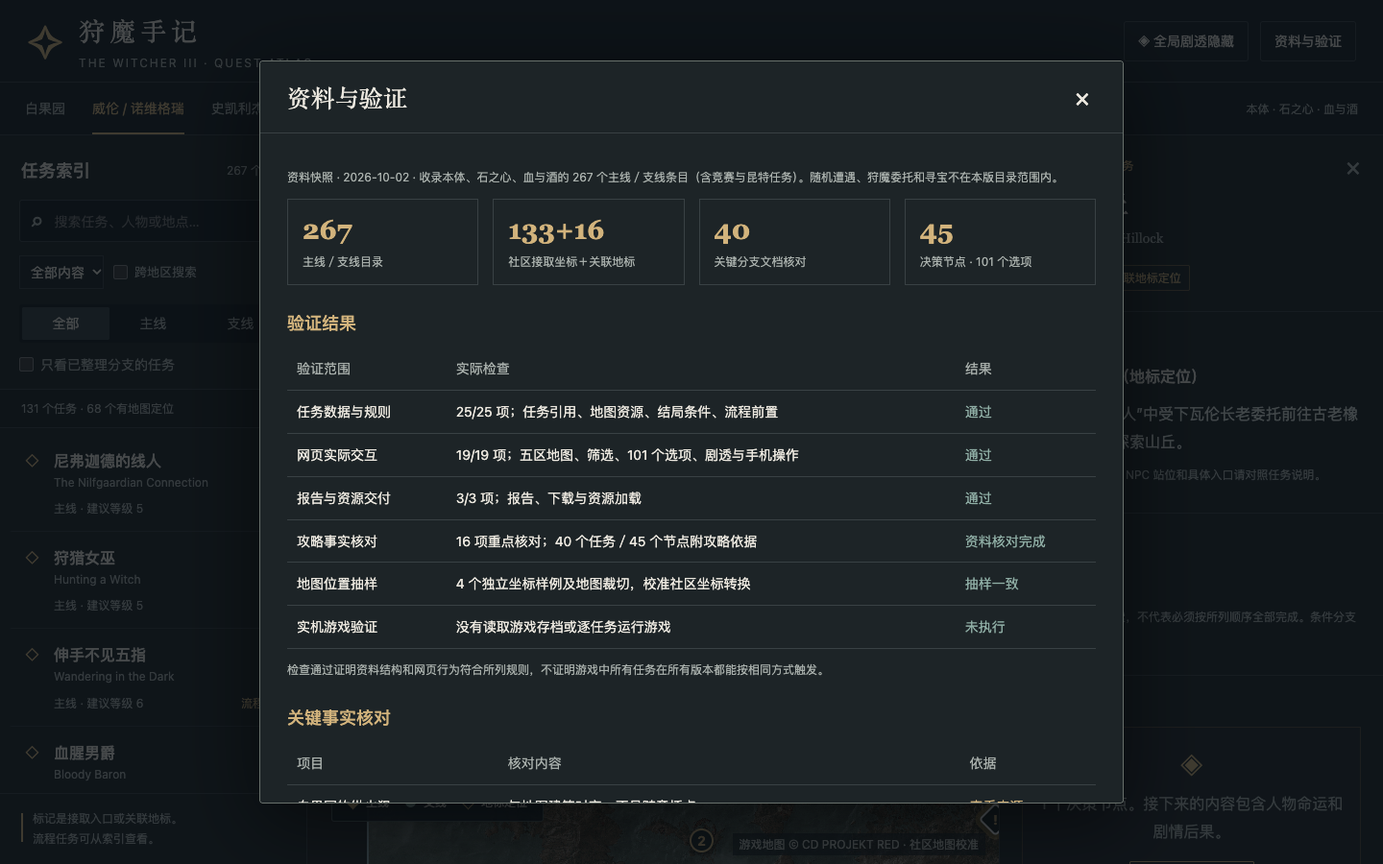
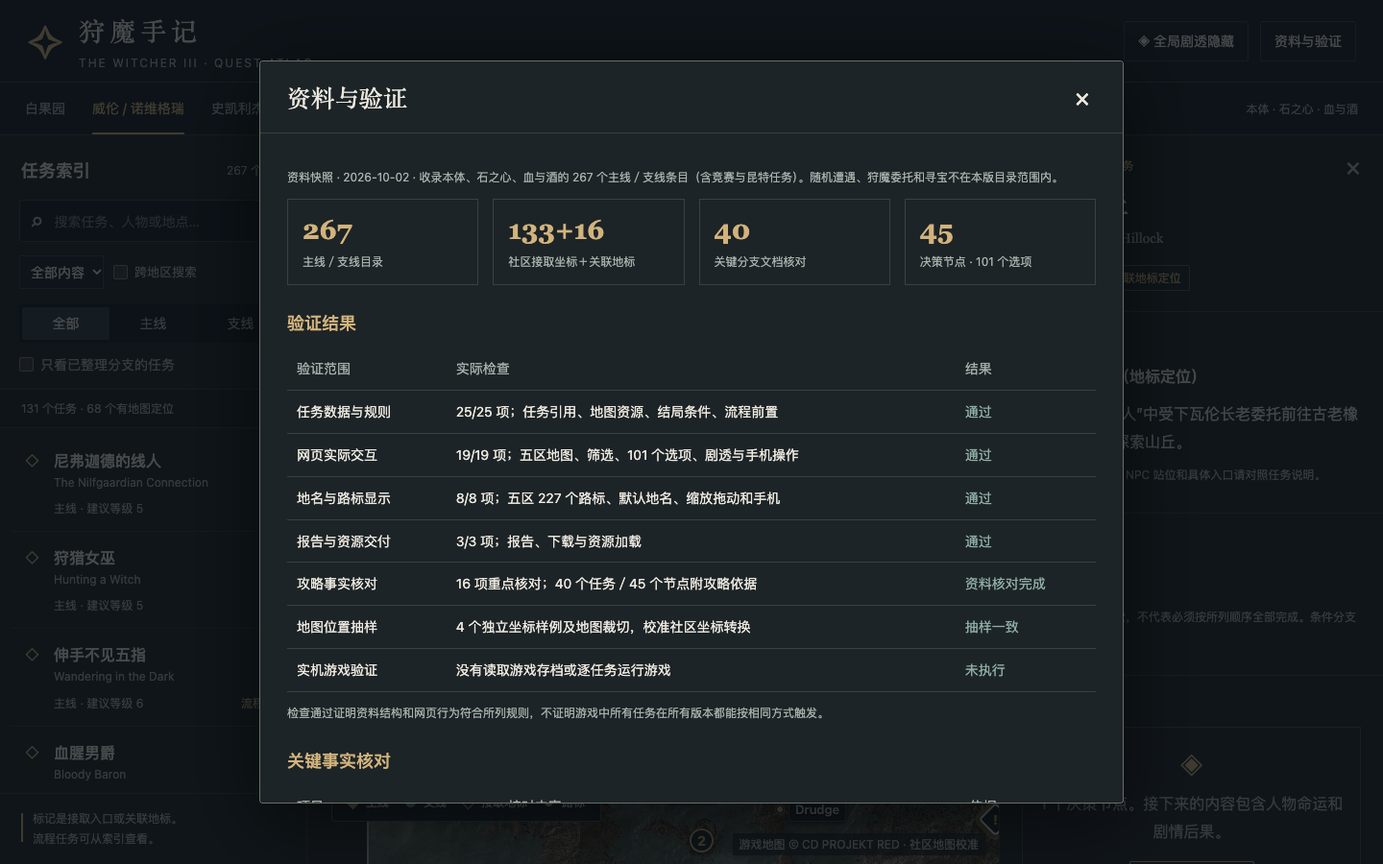
Update Site source

diff --git a/dist/app.js b/dist/app.js
@@ -1,15 +1,33 @@
 'use strict';
 const $=s=>document.querySelector(s),esc=s=>String(s??'').replace(/[&<>"']/g,c=>({'&':'&amp;','<':'&lt;','>':'&gt;','"':'&quot;',"'":'&#39;'}[c]));
 const REGIONS=[{id:'white-orchard',name:'白果园',title:'白果园',en:'WHITE ORCHARD',code:'WO',center:[-9,6],zoom:2,max:4},{id:'velen',name:'威伦 / 诺维格瑞',title:'威伦 & 诺维格瑞',en:'VELEN & NOVIGRAD',code:'NO',center:[8,-5],zoom:2,max:3},{id:'skellige',name:'史凯利杰',title:'史凯利杰群岛',en:'SKELLIGE ISLES',code:'SK',center:[0,0],zoom:2,max:3},{id:'kaer-morhen',name:'凯尔莫罕',title:'凯尔莫罕',en:'KAER MORHEN',code:'KM',center:[0,0],zoom:2,max:3},{id:'toussaint',name:'陶森特',title:'陶森特',en:'TOUSSAINT',code:'TO',center:[0,0],zoom:2,max:3},{id:'vizima',name:'维吉玛',title:'维吉玛王宫',en:'ROYAL PALACE',code:null,center:[0,0],zoom:2,max:3}];
-const EXP={base:'游戏本体',hos:'石之心',baw:'血与酒'};const state={region:'velen',type:'all',exp:'all',query:'',global:false,branch:false,selected:null,spoilers:false,revealed:[],choices:{},sim:{snow:true,lodge:true,lab:true,grave:true,visit:false,payment:true,war:'nilfgaard'},baw:{route:'fairy',ribbon:true,diary:true,story:true,fifth:true,forgive:true}};
-let DATA,byId,map,tiles,markers,labels,highlight;window.atlas={state};
+const EXP={base:'游戏本体',hos:'石之心',baw:'血与酒'};const state={region:'velen',type:'all',exp:'all',query:'',global:false,branch:false,selected:null,landmarks:true,spoilers:false,revealed:[],choices:{},sim:{snow:true,lodge:true,lab:true,grave:true,visit:false,payment:true,war:'nilfgaard'},baw:{route:'fairy',ribbon:true,diary:true,story:true,fifth:true,forgive:true}};
+let DATA,byId,map,tiles,markers,labels,placeNames,highlight,labelFrame;window.atlas={state};
 function filtered(){const query=state.query.toLowerCase();return DATA.quests.filter(q=>(state.global||q.region===state.region)&&(state.type==='all'||q.type===state.type)&&(state.exp==='all'||q.expansion===state.exp)&&(!state.branch||q.decisions.length>0||q.id==='q298')&&(!query||[q.title,q.name,q.location,q.trigger,...q.decisions.map(d=>d.title),q.people||''].join(' ').toLowerCase().includes(query))).sort((a,b)=>(a.type==='main'?0:1)-(b.type==='main'?0:1))}
 function regionMeta(){return REGIONS.find(r=>r.id===state.region)}
 function showMobile(view){document.body.classList.toggle('show-catalog',view==='list');document.body.classList.toggle('show-detail',view==='detail');$('#mobile-map').setAttribute('aria-pressed',String(view==='map'));$('#mobile-list').setAttribute('aria-pressed',String(view==='list'));$('#mobile-detail').setAttribute('aria-pressed',String(view==='detail'));setTimeout(()=>map?.invalidateSize(),50)}
 function renderList(){const qs=filtered();$('#total').textContent=DATA.quests.length+' 个任务';$('#list-summary').textContent=`${qs.length} 个任务 · ${qs.filter(q=>q.point).length} 个有地图定位`;$('#quest-list').innerHTML=qs.length?qs.map(q=>`<button class="quest-row ${state.selected===q.id?'selected':''}" data-quest="${esc(q.id)}" aria-pressed="${state.selected===q.id}"><span class="quest-symbol ${q.type}" aria-hidden="true">${q.type==='main'?'◇':'○'}</span><span class="quest-row-text"><strong>${esc(q.title)}</strong><span class="original">${esc(q.name)}</span><span class="row-meta"><span>${q.type==='main'?'主线':'支线'} · ${q.level?'建议等级 '+q.level:'无固定等级'}</span><span class="row-badge">${q.decisions.length?'抉择 '+q.decisions.length:!q.point?'流程触发':q.precision==='landmark'?'地标':''}</span></span></span></button>`).join(''):'<div class="empty">没有符合条件的任务。<br>试试调整筛选，或勾选“跨地区搜索”。</div>';document.querySelectorAll('[data-quest]').forEach(b=>b.onclick=()=>selectQuest(b.dataset.quest));renderMarkers();}
 function pinIcon(q,count){return L.divIcon({className:'',html:`<div class="map-pin ${q.type} ${q.precision==='landmark'?'landmark':''} ${state.selected===q.id?'chosen':''}" style="width:25px;height:25px"><span>${count>1?count:q.type==='main'?'!':'·'}</span></div>`,iconSize:[25,25],iconAnchor:[12,12]})}
-function renderMarkers(){if(!map)return;markers.clearLayers();const qs=filtered().filter(q=>q.point&&q.region===state.region);const grouped=new Map();for(const q of qs){const key=q.point.latlng.map(n=>n.toFixed(4)).join();if(!grouped.has(key))grouped.set(key,[]);grouped.get(key).push(q)}for(const group of grouped.values()){const q=group.find(q=>q.id===state.selected)||group[0],m=L.marker(q.point.latlng,{icon:pinIcon(q,group.length),title:group.map(q=>q.title).join('、'),keyboard:true});m.bindTooltip(esc(q.title)+(group.length>1?` 等 ${group.length} 个任务`:''),{direction:'top',offset:[0,-12]});m.on('click',()=>group.length>1?showGroup(group):selectQuest(q.id));m.addTo(markers)}$('#map-count').textContent=`${DATA.quests.filter(q=>q.region===state.region).length} 个任务 · ${qs.length} 个任务已定位`;}
-function setRegion(id){if(!REGIONS.some(r=>r.id===id))return;state.region=id;document.querySelector('.map-shell').classList.toggle('vizima',id==='vizima');if(highlight){highlight.remove();highlight=null}$('#regions').innerHTML=REGIONS.map(r=>`<button data-region="${r.id}" class="${r.id===id?'active':''}" aria-pressed="${r.id===id}">${r.name}</button>`).join('');document.querySelectorAll('[data-region]').forEach(b=>b.onclick=()=>{closeDetail();setRegion(b.dataset.region);showMobile('map')});const r=regionMeta();$('#map-title').textContent=r.title;$('#map-subtitle').textContent=r.en;if(tiles){tiles.remove();tiles=null}labels.clearLayers();if(r.code){tiles=L.tileLayer(`assets/tiles/${r.code}/{z}/{x}/{y}.png`,{minZoom:1,maxZoom:r.max+2,maxNativeZoom:r.max,noWrap:true,bounds:r.code==='WO'?[[-77.6929,-180],[76.5985,180]]:[[-85.0511,-180],[85.0511,180]],errorTileUrl:'assets/tile-empty.svg'}).addTo(map);$('#map-notice').textContent='';for(const p of DATA.landmarks.filter(p=>p.region===id)){L.circleMarker(p.latlng,{radius:2,color:'#d3ceaa',opacity:.45,weight:1,fillOpacity:.25}).bindTooltip(esc(p.name),{permanent:false,className:'landmark-label',direction:'top'}).addTo(labels)}}else $('#map-notice').textContent='维吉玛王宫是独立室内场景。此处展示流程任务，不使用其他地区地图代替。';map.setView(r.center,r.zoom);renderList();}
+function renderMarkers(){if(!map)return;markers.clearLayers();const qs=filtered().filter(q=>q.point&&q.region===state.region);const grouped=new Map();for(const q of qs){const key=q.point.latlng.map(n=>n.toFixed(4)).join();if(!grouped.has(key))grouped.set(key,[]);grouped.get(key).push(q)}for(const group of grouped.values()){const q=group.find(q=>q.id===state.selected)||group[0],m=L.marker(q.point.latlng,{icon:pinIcon(q,group.length),title:group.map(q=>q.title).join('、'),keyboard:true});m.bindTooltip(esc(q.title)+(group.length>1?` 等 ${group.length} 个任务`:''),{direction:'top',offset:[0,-12]});m.on('click',()=>group.length>1?showGroup(group):selectQuest(q.id));m.addTo(markers)}$('#map-count').textContent=`${DATA.quests.filter(q=>q.region===state.region).length} 个任务 · ${qs.length} 个任务已定位`;schedulePlaceNames();}
+const PLACE_NAMES={
+ '哀歌桥':'白果园 · 哀歌桥','Sawmill':'锯木厂','Mill':'磨坊','Ford':'浅滩','Crossroads':'十字路口','Broken Bridge':'断桥','Ransacked Village':'洗劫村庄','Cackler Bridge':'咯咯桥','Abandoned Village':'废弃村庄',
+ 'Hierarch Square':'诺维格瑞 · 教主广场','Novigrad Docks':'诺维格瑞港','St. Gregory\'s Bridge':'圣格列高里之桥','Electors\' Square':'选帝侯广场','Hanged Man\'s Tree':'吊死鬼之树','Orphans of Crookback Bog':'驼背泥沼孤儿村','Blackbough（黑树村）':'黑枝／黑树村','Lindenvale':'林登维尔','Oreton':'奥瑞登','Claywich':'克莱威奇','Heatherton':'希瑟顿','Benek':'班寇','Lurtch':'勒契','Mulbrydale':'莫布里戴尔','Reardon Manor':'里尔顿庄园','Vegelbud Residence':'威吉布德庄园','Border Post':'边境哨站','White Eagle Fort':'白鹰堡垒','Bald Mountain':'秃山','Nilfgaardian Army Group':'尼弗迦德军营','Upper Mill':'上磨坊','Brunwich':'布伦威治','Von Everec Estate':'冯·艾弗瑞克庄园','Herbalist\'s Hut':'草药医生小屋','Stonecutter\'s Settlement':'石匠聚落','Temerian Parison Hideout':'泰莫利亚游击队营地',
+ 'Kaer Muire':'凯尔缪雷','Arinbjorn':'阿林比翁','Blandare':'布兰代尔','Svorlag':'斯沃拉格','Harviken':'哈尔维肯','Trottheim':'托特海姆','Freya\'s Garden':'芙蕾雅花园','Druids\' Camp':'德鲁伊营地','Ancient Crypt':'古老墓穴','Pali Gap Coast':'帕利峡湾海岸','Eldberg Lighthouse':'艾尔德堡灯塔','Dorve Ruins':'多尔夫废墟',
+ 'The Morhen Eye':'莫罕之眼','Outpost ruins':'哨站废墟','Morhen Mine dam':'莫罕矿坑','The Lake House':'湖畔小屋',
+ 'Beauclair Palace':'鲍克兰宫殿','The Gran\'place':'鲍克兰 · 大广场','Beauclair Port':'鲍克兰港','Palace Gardens':'宫殿花园','Lower City':'鲍克兰下城区','Ardaiso Quarry':'阿尔达索采石场','Belgaard Vineyard':'贝尔迦德葡萄园','Coronata Vineyard':'科罗纳塔葡萄园','Castel Ravello Vineyard':'拉维罗堡葡萄园','Dun Tynne Castle':'杜恩泰恩城堡','The Cockatrice Inn':'石化鸡蛇旅馆','Prophet Lebioda Statue':'雷比欧达雕像','Fox Hollow':'狐穴','Trading Post':'贸易站','Toussaint Prison':'陶森特监狱'
+};
+const MAJOR_PLACES=new Set(['哀歌桥','尼弗迦德驻军','Hierarch Square','Novigrad Docks','奥森弗特港','乌鸦窝','十字路口旅店','米德考普斯','古老橡树','下瓦伦','七只猫旅馆','Hanged Man\'s Tree','Upper Mill','Brunwich','凯尔卓港','凯尔卓城堡桥','盖迪尼斯','罗弗敦','拉尔维克','Kaer Muire','Svorlag','凯尔莫罕','The Gran\'place','Beauclair Palace','白鸦葡萄园','比武场','普雷格蒙德桥','Belgaard Vineyard']);
+function placeName(p){return PLACE_NAMES[p.name]||p.name}
+function syncLandmarks(){const b=$('#landmark-toggle');b.setAttribute('aria-pressed',String(state.landmarks));b.textContent=state.landmarks?'地名 ✓':'地名';}
+function renderLandmarks(){labels.clearLayers();placeNames.clearLayers();if(!state.landmarks||!regionMeta().code)return;for(const p of DATA.landmarks.filter(p=>p.region===state.region)){L.marker(p.latlng,{pane:'landmarkPoints',title:placeName(p),icon:L.divIcon({className:'road-sign',html:'<span></span>',iconSize:[12,12],iconAnchor:[6,6]})}).bindTooltip(esc(placeName(p)),{direction:'top',className:'place-hover'}).bindPopup(`<strong>${esc(placeName(p))}</strong><p>快速旅行路标</p>${placeName(p)!==p.name?`<small>${esc(p.name)}</small>`:''}`,{className:'place-popup'}).addTo(labels)}schedulePlaceNames();}
+function schedulePlaceNames(){if(labelFrame)cancelAnimationFrame(labelFrame);labelFrame=requestAnimationFrame(()=>{labelFrame=null;renderPlaceNames()})}
+function renderPlaceNames(){placeNames.clearLayers();if(!state.landmarks||!regionMeta().code||!Number.isFinite(map.getZoom()))return;const size=map.getSize(),mapRect=$('#map').getBoundingClientRect(),fontScale=parseFloat(getComputedStyle(document.documentElement).fontSize)/16,ctx=document.createElement('canvas').getContext('2d'),occupied=[];const overlaps=(a,b)=>a.x<b.x+b.w+4&&a.x+a.w+4>b.x&&a.y<b.y+b.h+4&&a.y+a.h+4>b.y;
+ for(const selector of ['.map-heading','.compass','.map-tools','.legend','.attribution']){const b=document.querySelector(selector)?.getBoundingClientRect();if(b&&b.width&&b.height)occupied.push({x:b.x-mapRect.x,y:b.y-mapRect.y,w:b.width,h:b.height})}
+ for(const q of filtered().filter(q=>q.point&&q.region===state.region)){const p=map.latLngToContainerPoint(q.point.latlng);occupied.push({x:p.x-14,y:p.y-14,w:28,h:28})}
+ const candidates=DATA.landmarks.filter(p=>p.region===state.region).map((p,i)=>({...p,index:i,major:MAJOR_PLACES.has(p.name),point:map.latLngToContainerPoint(p.latlng)})).filter(p=>p.point.x>=8&&p.point.x<=size.x-8&&p.point.y>=8&&p.point.y<=size.y-8).sort((a,b)=>Number(b.major)-Number(a.major)||a.index-b.index);
+ for(const p of candidates){const text=placeName(p),font=(p.major?14:13)*fontScale;ctx.font=`${p.major?700:500} ${font}px -apple-system, BlinkMacSystemFont, "PingFang SC", sans-serif`;const w=Math.min(Math.ceil(ctx.measureText(text).width+14),Math.max(110,Math.min(230*fontScale,size.x-24))),h=Math.ceil(font*1.45+6),x=p.point.x,y=p.point.y;const positions=(p.major?[9,30,54,82,110]:[9]).flatMap(g=>[{x:x+g,y:y-h/2,g},{x:x-w-g,y:y-h/2,g},{x:x-w/2,y:y+g,g},{x:x-w/2,y:y-h-g,g}]);const box=positions.find(b=>b.x>=6&&b.y>=6&&b.x+w<=size.x-6&&b.y+h<=size.y-6&&!occupied.some(o=>overlaps({...b,w,h},o)));if(!box)continue;occupied.push({...box,w,h});if(box.g>9){const end={x:Math.max(box.x,Math.min(x,box.x+w)),y:Math.max(box.y,Math.min(y,box.y+h))};L.polyline([p.latlng,map.containerPointToLatLng(end)],{pane:'placeNames',color:'#d9c391',opacity:.75,weight:1,interactive:false}).addTo(placeNames)}L.marker(p.latlng,{pane:'placeNames',interactive:false,keyboard:false,icon:L.divIcon({className:'place-label'+(p.major?' major':''),html:`<span title="${esc(text)}">${esc(text)}</span>`,iconSize:[w,h],iconAnchor:[x-box.x,y-box.y]})}).addTo(placeNames)}
+}
+function setRegion(id){if(!REGIONS.some(r=>r.id===id))return;state.region=id;document.querySelector('.map-shell').classList.toggle('vizima',id==='vizima');if(highlight){highlight.remove();highlight=null}$('#regions').innerHTML=REGIONS.map(r=>`<button data-region="${r.id}" class="${r.id===id?'active':''}" aria-pressed="${r.id===id}">${r.name}</button>`).join('');document.querySelectorAll('[data-region]').forEach(b=>b.onclick=()=>{closeDetail();setRegion(b.dataset.region);showMobile('map')});const r=regionMeta();$('#map-title').textContent=r.title;$('#map-subtitle').textContent=r.en;if(tiles){tiles.remove();tiles=null}labels.clearLayers();if(r.code){tiles=L.tileLayer(`assets/tiles/${r.code}/{z}/{x}/{y}.png`,{minZoom:1,maxZoom:r.max+2,maxNativeZoom:r.max,noWrap:true,bounds:r.code==='WO'?[[-77.6929,-180],[76.5985,180]]:[[-85.0511,-180],[85.0511,180]],errorTileUrl:'assets/tile-empty.svg'}).addTo(map);$('#map-notice').textContent='';renderLandmarks();}else $('#map-notice').textContent='维吉玛王宫是独立室内场景。此处展示流程任务，不使用其他地区地图代替。';map.setView(r.center,r.zoom);renderList();}
 function selectQuest(id,focus=true){const q=byId[id];if(!q)return;state.selected=id;if(q.region!==state.region)setRegion(q.region);if(state.type!=='all'&&state.type!==q.type){state.type='all';syncType()}if(state.branch&&!q.decisions.length){state.branch=false;$('#branch-only').checked=false}if(state.exp!=='all'&&state.exp!==q.expansion){state.exp='all';$('#expansion').value='all'}renderList();$('#detail').scrollTop=0;renderDetail();if(state.query&&!filtered().some(a=>a.id===id)){state.query='';$('#search').value='';renderList()}if(q.point&&focus){map.setView(q.point.latlng,Math.max(map.getZoom(),3));if(highlight)highlight.remove();highlight=L.circleMarker(q.point.latlng,{radius:21,weight:1,color:'#f1d8aa',fillOpacity:0,interactive:false}).addTo(map)}else if(highlight){highlight.remove();highlight=null}if(matchMedia('(max-width:700px)').matches)showMobile('detail');}
 function linked(ids){return `<div class="linked-quests">${ids.filter(id=>byId[id]).map(id=>`<button data-link="${esc(id)}">${esc(byId[id].title)}</button>`).join('')}</div>`}
 function bindLinks(){document.querySelectorAll('[data-link]').forEach(b=>b.onclick=()=>selectQuest(b.dataset.link));}
@@ -28,7 +46,7 @@ function bindSimulators(){if($('#ciri-simulator')){updateCiriResult();for(const 
 function syncType(){document.querySelectorAll('[data-type]').forEach(b=>b.setAttribute('aria-pressed',String(state.type===b.dataset.type)))}
 function syncSpoiler(){$('#spoiler').setAttribute('aria-pressed',String(state.spoilers));$('#spoiler').innerHTML=state.spoilers?'◈ 全局剧透展开':'◈ 全局剧透隐藏'}
 async function renderAudit(){let qa=null;try{const r=await fetch('validation.json',{cache:'no-store'});if(r.ok)qa=await r.json()}catch{}const exact=DATA.quests.filter(q=>q.precision==='community').length,anchors=DATA.quests.filter(q=>q.precision==='landmark').length;$('#audit-content').innerHTML=`<p class="fine">资料快照 · ${esc(DATA.meta.date)} · ${esc(DATA.meta.scope)}</p><div class="audit-stats"><div class="audit-stat"><strong>${DATA.quests.length}</strong><span>主线／支线目录</span></div><div class="audit-stat"><strong>${exact}+${anchors}</strong><span>社区接取坐标＋关联地标</span></div><div class="audit-stat"><strong>${DATA.meta.reviewedTasks}</strong><span>关键分支文档核对</span></div><div class="audit-stat"><strong>${DATA.meta.decisionNodes}</strong><span>决策节点 · ${DATA.meta.decisionOptions} 个选项</span></div></div><h3>验证结果</h3>${qa?`<div class="audit-table-wrap"><table class="audit-table"><thead><tr><th>验证范围</th><th>实际检查</th><th>结果</th></tr></thead><tbody>${qa.summary.map(t=>`<tr><td>${esc(t.name)}</td><td>${esc(t.detail)}</td><td>${esc(t.status)}</td></tr>`).join('')}</tbody></table></div>`:'<p>自动检查报告尚未生成。地图与分支资料的核对结果如下。</p>'}<p class="fine">检查通过证明资料结构和网页行为符合所列规则，不证明游戏中所有任务在所有版本都能按相同方式触发。</p><h3>关键事实核对</h3><div class="audit-table-wrap"><table class="audit-table"><thead><tr><th>项目</th><th>核对内容</th><th>依据</th></tr></thead><tbody>${DATA.meta.factChecks.map(t=>`<tr><td>${esc(t.claim)}</td><td>${esc(t.result)}</td><td><a href="${esc(t.source)}" target="_blank" rel="noopener">查看来源</a></td></tr>`).join('')}</tbody></table></div><h3>接取点视觉抽样</h3><p>用相同校准方式把接取坐标叠到真实地图上。下列四处与建筑／地标对应；这属于地图一致性检查。</p><div class="review-grid">${[['19','失踪的兄弟 · 洗劫村庄'],['37','扭曲的纵火犯 · 白果园铁匠'],['263','宝剑与饺子 · 诺维格瑞铁匠街区'],['424','唯有一人 · 鲍克兰告示板，非湖上目标']].map(([id,t])=>`<figure><img loading="lazy" src="assets/check-${id}.jpg" alt="${esc(t)}的地图坐标核对"><figcaption>${esc(t)}</figcaption></figure>`).join('')}</div><h3>覆盖与验证边界</h3><ul>${DATA.meta.limitations.map(t=>`<li>${esc(t)}</li>`).join('')}</ul><h3>已修正的来源问题</h3><ul>${DATA.meta.corrections.map(t=>`<li>${esc(t)}</li>`).join('')}</ul><h3>资料来源</h3><div class="source-list">${DATA.meta.sources.map(s=>`<a href="${esc(s.url)}" target="_blank" rel="noopener">${esc(s.label)} ↗</a>`).join('')}</div><div class="audit-downloads"><a href="validation-report.md" download>下载验证报告</a><a href="data.json" download>下载任务数据</a><a href="fact-checks.json" download>下载事实核对清单</a></div><p class="fine">游戏地图与游戏内容版权归 CD PROJEKT RED 所有，地图和坐标来源注明 Witcher3MapViewer。本网站为非官方个人研究工具。Leaflet 1.9.4 使用 BSD-2-Clause 许可。</p>`;}
-async function init(){try{const r=await fetch('data.json');if(!r.ok)throw Error('任务资料加载失败');DATA=await r.json();byId=Object.fromEntries(DATA.quests.map(q=>[q.id,q]));map=L.map('map',{zoomControl:false,attributionControl:false,minZoom:1,maxZoom:6,preferCanvas:true,worldCopyJump:false});markers=L.layerGroup().addTo(map);labels=L.layerGroup().addTo(map);window.atlas={state,DATA,filtered,selectQuest,setRegion,map,hasSpoilers,renderDetail,renderList};registerWebMCP();setRegion(state.region);$('#search').oninput=e=>{state.query=e.target.value;renderList()};$('#expansion').onchange=e=>{state.exp=e.target.value;renderList()};$('#global').onchange=e=>{state.global=e.target.checked;renderList()};$('#branch-only').onchange=e=>{state.branch=e.target.checked;renderList()};document.querySelectorAll('[data-type]').forEach(b=>b.onclick=()=>{state.type=b.dataset.type;syncType();renderList()});$('#spoiler').onclick=()=>{state.spoilers=!state.spoilers;if(!state.spoilers)state.revealed=[];syncSpoiler();renderDetail()};$('#verification').onclick=()=>{$('#audit-dialog').showModal();renderAudit()};$('#close-audit').onclick=()=>$('#audit-dialog').close();$('#audit-dialog').onclick=e=>{if(e.target===$('#audit-dialog')){const b=e.target.getBoundingClientRect();if(e.clientX<b.left||e.clientX>b.right||e.clientY<b.top||e.clientY>b.bottom)e.target.close()}};$('#reset-map').onclick=()=>{const r=regionMeta();map.setView(r.center,r.zoom)};$('#zoom-in').onclick=()=>map.zoomIn();$('#zoom-out').onclick=()=>map.zoomOut();$('#mobile-map').onclick=()=>showMobile('map');$('#mobile-list').onclick=()=>showMobile('list');$('#mobile-detail').onclick=()=>state.selected?showMobile('detail'):showMobile('list');document.addEventListener('keydown',e=>{if(e.key==='/'&&!['INPUT','SELECT','TEXTAREA'].includes(document.activeElement.tagName)&&!$('#audit-dialog').open){e.preventDefault();showMobile('list');$('#search').focus()}if(e.key==='Escape'&&!$('#audit-dialog').open&&state.selected)closeDetail()});selectQuest('q67',false);if(matchMedia('(max-width:700px)').matches)showMobile('map')}catch(e){$('#fatal').hidden=false;$('#fatal').textContent='页面资料未能加载。请刷新重试。'+e.message;console.error(e)}}
+async function init(){try{const r=await fetch('data.json');if(!r.ok)throw Error('任务资料加载失败');DATA=await r.json();byId=Object.fromEntries(DATA.quests.map(q=>[q.id,q]));map=L.map('map',{zoomControl:false,attributionControl:false,minZoom:1,maxZoom:6,preferCanvas:true,worldCopyJump:false});markers=L.layerGroup().addTo(map);map.createPane('landmarkPoints').style.zIndex=430;map.createPane('placeNames').style.zIndex=440;map.getPane('placeNames').style.pointerEvents='none';labels=L.layerGroup().addTo(map);placeNames=L.layerGroup().addTo(map);map.on('moveend zoomend resize',schedulePlaceNames);window.atlas={state,DATA,filtered,selectQuest,setRegion,map,hasSpoilers,renderDetail,renderList,landmarkLayers:{points:labels,names:placeNames}};registerWebMCP();setRegion(state.region);$('#search').oninput=e=>{state.query=e.target.value;renderList()};$('#expansion').onchange=e=>{state.exp=e.target.value;renderList()};$('#global').onchange=e=>{state.global=e.target.checked;renderList()};$('#branch-only').onchange=e=>{state.branch=e.target.checked;renderList()};document.querySelectorAll('[data-type]').forEach(b=>b.onclick=()=>{state.type=b.dataset.type;syncType();renderList()});$('#spoiler').onclick=()=>{state.spoilers=!state.spoilers;if(!state.spoilers)state.revealed=[];syncSpoiler();renderDetail()};$('#verification').onclick=()=>{$('#audit-dialog').showModal();renderAudit()};$('#close-audit').onclick=()=>$('#audit-dialog').close();$('#audit-dialog').onclick=e=>{if(e.target===$('#audit-dialog')){const b=e.target.getBoundingClientRect();if(e.clientX<b.left||e.clientX>b.right||e.clientY<b.top||e.clientY>b.bottom)e.target.close()}};syncLandmarks();$('#landmark-toggle').onclick=()=>{state.landmarks=!state.landmarks;syncLandmarks();renderLandmarks()};$('#reset-map').onclick=()=>{const r=regionMeta();map.setView(r.center,r.zoom)};$('#zoom-in').onclick=()=>map.zoomIn();$('#zoom-out').onclick=()=>map.zoomOut();$('#mobile-map').onclick=()=>showMobile('map');$('#mobile-list').onclick=()=>showMobile('list');$('#mobile-detail').onclick=()=>state.selected?showMobile('detail'):showMobile('list');document.addEventListener('keydown',e=>{if(e.key==='/'&&!['INPUT','SELECT','TEXTAREA'].includes(document.activeElement.tagName)&&!$('#audit-dialog').open){e.preventDefault();showMobile('list');$('#search').focus()}if(e.key==='Escape'&&!$('#audit-dialog').open&&state.selected)closeDetail()});selectQuest('q67',false);if(matchMedia('(max-width:700px)').matches)showMobile('map')}catch(e){$('#fatal').hidden=false;$('#fatal').textContent='页面资料未能加载。请刷新重试。'+e.message;console.error(e)}}
 function showGroup(qs){$('#detail').hidden=false;$('#detail').innerHTML=`<div class="detail-top"><button class="detail-close" id="detail-close" aria-label="关闭任务详情">×</button><div class="detail-kicker">同一地点</div><h2>${qs.length} 个关联任务</h2></div><section class="detail-section"><div class="group-picker">${qs.map(q=>`<button data-link="${esc(q.id)}">${esc(q.title)}<span class="fine"> · ${q.type==='main'?'主线':'支线'}</span></button>`).join('')}</div><p class="fine">同一地标的任务可能在不同剧情阶段触发。</p></section>`;$('#detail-close').onclick=closeDetail;bindLinks();if(matchMedia('(max-width:700px)').matches)showMobile('detail')}
 init();
 

diff --git a/dist/index.html b/dist/index.html
@@ -2,7 +2,7 @@
 <header><div class="brand"><span class="brand-mark" aria-hidden="true">✧</span><div><h1>狩魔手记</h1><span>THE WITCHER III · QUEST ATLAS</span></div></div><div class="header-actions"><button id="spoiler" class="quiet" aria-pressed="false"><span aria-hidden="true">◈</span> 全局剧透隐藏</button><button id="verification" class="quiet">资料与验证</button></div></header>
 <nav class="region-nav" aria-label="地图地区"><div id="regions"></div><span class="version">本体 · 石之心 · 血与酒</span></nav>
 <main><aside class="catalog" id="catalog"><div class="catalog-heading"><h2>任务索引</h2><span id="total" class="small"></span></div><label class="search"><span aria-hidden="true">⌕</span><input id="search" placeholder="搜索任务、人物或地点…" aria-label="搜索任务、人物或地点"><kbd>/</kbd></label><div class="filter-row"><label for="expansion" class="sr-only">游戏内容</label><select id="expansion"><option value="all">全部内容</option><option value="base">游戏本体</option><option value="hos">石之心</option><option value="baw">血与酒</option></select><label class="check"><input type="checkbox" id="global">跨地区搜索</label></div><div class="types" id="types" aria-label="任务类型"><button data-type="all" aria-pressed="true">全部</button><button data-type="main" aria-pressed="false">主线</button><button data-type="side" aria-pressed="false">支线</button></div><label class="check branch-filter"><input type="checkbox" id="branch-only">只看已整理分支的任务</label><div class="list-summary" id="list-summary" role="status"></div><div id="quest-list" class="quest-list"></div><div class="catalog-footer"><span class="gold-line"></span><span>标记是接取入口或关联地标。<br>流程任务可从索引查看。</span></div></aside>
-<section class="map-shell" aria-label="互动任务地图"><div id="map"></div><div class="map-heading"><span class="eyebrow" id="map-subtitle">NORTHERN REALMS</span><h2 id="map-title">威伦 & 诺维格瑞</h2><p id="map-count"></p></div><div class="compass" aria-hidden="true"><span>N</span><div>✥</div></div><div class="map-tools"><button id="reset-map" title="查看整个地区" aria-label="查看整个地区">⌖</button><button id="zoom-in" aria-label="放大地图">+</button><button id="zoom-out" aria-label="缩小地图">−</button></div><div class="legend"><span><i class="legend-main"></i>主线</span><span><i class="legend-side"></i>支线</span><span><i class="legend-anchor"></i>地标定位</span></div><div class="map-notice" id="map-notice" role="status"></div><div class="attribution">游戏地图 © CD PROJEKT RED · 社区地图校准</div></section>
+<section class="map-shell" aria-label="互动任务地图"><div id="map"></div><div class="map-heading"><span class="eyebrow" id="map-subtitle">NORTHERN REALMS</span><h2 id="map-title">威伦 & 诺维格瑞</h2><p id="map-count"></p></div><div class="compass" aria-hidden="true"><span>N</span><div>✥</div></div><div class="map-tools"><button id="landmark-toggle" class="landmark-toggle" aria-label="显示或隐藏地名与路标" aria-pressed="true" title="地名默认显示；放大后可见更多路标名称">地名 ✓</button><button id="reset-map" title="查看整个地区" aria-label="查看整个地区">⌖</button><button id="zoom-in" aria-label="放大地图">+</button><button id="zoom-out" aria-label="缩小地图">−</button></div><div class="legend"><span><i class="legend-main"></i>主线</span><span><i class="legend-side"></i>支线</span><span><i class="legend-anchor"></i>接取地标</span><span><i class="legend-place"></i>路标</span></div><div class="map-notice" id="map-notice" role="status"></div><div class="attribution">游戏地图 © CD PROJEKT RED · 社区地图校准</div></section>
 <aside class="detail" id="detail" hidden aria-label="任务详情"></aside>
 </main><div class="mobile-tabs"><button id="mobile-map" aria-pressed="true">地图</button><button id="mobile-list" aria-pressed="false">任务索引</button><button id="mobile-detail">任务详情</button></div><dialog id="audit-dialog" aria-labelledby="audit-title"><div class="dialog-top"><h2 id="audit-title">资料与验证</h2><button id="close-audit" aria-label="关闭资料与验证">×</button></div><div id="audit-content"></div></dialog><div id="fatal" hidden role="alert"></div>
 </body></html>

diff --git a/dist/style.css b/dist/style.css
@@ -10,3 +10,7 @@ body{height:100dvh;display:flex;flex-direction:column}header{height:auto;min-hei
 .catalog{overflow-y:auto}.catalog>:not(.quest-list){flex-shrink:0}.quest-list{min-height:150px}.map-heading{max-width:calc(100% - 78px);padding-right:12px}
 
 .map-heading{max-width:calc(100% - 5rem - 56px)}.map-heading h2{white-space:normal;overflow-wrap:anywhere}
+
+.place-label{pointer-events:none!important;display:flex;align-items:center;justify-content:center;white-space:nowrap;font-size:.8125rem;font-weight:500;color:#e9e7d9;background:#182124e8;border:1px solid #77827790;border-radius:3px;padding:2px 6px;line-height:1.45;box-shadow:0 1px 5px #000b;text-shadow:0 1px 2px #000}.place-label span{overflow:hidden;text-overflow:ellipsis}.place-label.major{font-size:.875rem;font-weight:700;color:#f3deaf;border-color:#b39c67a0;background:#172124f5}.place-hover{background:#202a2e;color:#f3deaf;border-color:#b39c67}.place-popup .leaflet-popup-content-wrapper,.place-popup .leaflet-popup-tip{background:#202a2e;color:#ece8df}.place-popup .leaflet-popup-content{font-size:.875rem;line-height:1.6}.place-popup p{margin:5px 0;color:#abb9b1}.place-popup small{color:#abb9b1}.map-tools .landmark-toggle{font-size:.6875rem;line-height:1.5;font-weight:500}.map-tools .landmark-toggle[aria-pressed=true]{color:var(--gold);background:#d2b37c12}.legend-place{width:8px;height:8px;border:1px solid #172024;background:#ead5a6;border-radius:50%;display:inline-block}.legend{flex-wrap:wrap}@media(max-width:700px){.legend{gap:10px;max-width:calc(100% - 26px)}.map-tools .landmark-toggle{font-size:.6875rem}}
+
+#map .leaflet-placeNames-pane,#map .leaflet-placeNames-pane *{pointer-events:none!important}.road-sign{display:flex;align-items:center;justify-content:center}.road-sign span{display:block;width:8px;height:8px;border-radius:50%;background:#ead5a6;border:1.5px solid #172024;box-shadow:0 0 0 1px #d9c39180}

diff --git a/scripts/build-report.py b/scripts/build-report.py
@@ -15,6 +15,11 @@ if browser.get('datasetSha256'):
 asset=read('evidence/asset-report-validation.json') if (root/'evidence/asset-report-validation.json').exists() else None
 if asset:
  assert asset['status']=='pass' and asset['datasetSha256']==digest
+landmark=read('evidence/landmark-validation.json') if (root/'evidence/landmark-validation.json').exists() else None
+if landmark:
+ assert landmark['status']=='pass' and landmark['datasetSha256']==digest
+ assert landmark['appSha256']==hashlib.sha256((root/'dist/app.js').read_bytes()).hexdigest()
+ assert landmark['styleSha256']==hashlib.sha256((root/'dist/style.css').read_bytes()).hexdigest()
 summary=[
  {'name':'任务数据与规则','detail':f"{logic['passed']}/{logic['total']} 项；任务引用、地图资源、结局条件、流程前置",'status':'通过'},
  {'name':'网页实际交互','detail':f"{browser['passed']}/{browser['total']} 项；五区地图、筛选、101 个选项、剧透与手机操作",'status':'通过'},
@@ -23,16 +28,24 @@ summary=[
  {'name':'实机游戏验证','detail':'没有读取游戏存档或逐任务运行游戏','status':'未执行'},
 ]
 if asset:summary.insert(2,{'name':'报告与资源交付','detail':f"{asset['passed']}/{asset['total']} 项；报告、下载与资源加载",'status':'通过'})
+if landmark:summary.insert(2,{'name':'地名与路标显示','detail':f"{landmark['passed']}/{landmark['total']} 项；五区 227 个路标、默认地名、缩放拖动和手机",'status':'通过'})
 qa={'date':d['meta']['date'],'status':'pass','datasetSha256':digest,'summary':summary,
- 'automatedChecksPassed':logic['passed']+browser['passed']+(asset['passed'] if asset else 0),
+ 'automatedChecksPassed':logic['passed']+browser['passed']+(asset['passed'] if asset else 0)+(landmark['passed'] if landmark else 0),
  'coverage':{'quests':len(d['quests']),'main':87,'side':180,'positioned':149,'communityCoordinates':133,'landmarkAnchors':16,'flowOrUnmapped':118,'reviewedBranchTasks':40,'decisionNodes':45,'decisionOptions':101},
  'limits':d['meta']['limitations'],
  'evidence':{'data':'checks/data-logic.json','browser':'checks/browser.json','assets':'checks/assets.json' if asset else None},
  'webMCP':browser['webMCP']}
+if landmark:
+ qa['coverage']['roadSigns']=227
+ qa['evidence']['landmarks']='checks/landmarks.json'
 dist=root/'dist';(dist/'checks').mkdir(exist_ok=True)
 for f,target in [('data-logic-validation.json','data-logic.json'),('browser-validation.json','browser.json')]:
  shutil.copyfile(root/'evidence'/f,dist/'checks'/target)
 if asset:shutil.copyfile(root/'evidence/asset-report-validation.json',dist/'checks/assets.json')
+if landmark:
+ shutil.copyfile(root/'evidence/landmark-validation.json',dist/'checks/landmarks.json')
+ for name in ['landmarks-desktop.png','landmarks-mobile.png']:
+  shutil.copyfile(root/'evidence'/name,dist/'checks'/name)
 for name in ['desktop-final.png','mobile-final.png','decision-final.png','mobile-audit.png','text-200.png']:
  shutil.copyfile(root/'evidence'/name,dist/'checks'/name)
 (dist/'validation.json').write_text(json.dumps(qa,ensure_ascii=False,indent=2))
@@ -88,11 +101,12 @@ lines += [
  '',
  '数值样例用于检查坐标转换；裁切用于建筑与地标的一致性抽样。没有验证全部 149 个点的游戏内 NPC 站位。',
  '',
- '### 重点事实与来源',
- '',
- '| 核对项目 | 结论 | 依据 |',
- '| --- | --- | --- |',
  ]
+if landmark:
+ lines += ['','### 本次地名更新验收','',f"[逐项结果](checks/landmarks.json)：{landmark['passed']}/{landmark['total']} 项通过。227 个原有快速旅行路标现在默认显示名称，密集处的主要地名避让后用细线指回路标；可用“地名”按钮开关。",'']
+ lines += [f"- {c['name']}：{c['detail']}。" for c in landmark['checks']]
+ lines += ['','更新画面：[桌面地名](checks/landmarks-desktop.png)、[手机地名](checks/landmarks-mobile.png)。原有 19 项完整流程验收保留；本次新增地名叠加和地图操作由上述专门检查复验。','']
+lines += ['', '### 重点事实与来源', '', '| 核对项目 | 结论 | 依据 |', '| --- | --- | --- |']
 lines += [f"| {c['claim']} | {c['result']} | [攻略]({c['source']}) |" for c in d['meta']['factChecks']]
 lines += [
  '',

diff --git a/README.md b/README.md
@@ -8,6 +8,8 @@
 
 手机底部可切换地图、任务索引和详情。右上角“资料与验证”提供实际检查结果、攻略链接、地图样例和下载。
 
+地图默认显示 227 个快速旅行路标的位置，并显示视野内可容纳的地名。主要城镇优先显示，密集处避让后以细线指回路标。放大可以看清更多附近地名；右侧“地名”按钮可以开关，任务筛选不会隐藏路标。
+
 ## 当前覆盖与正确性
 
 - 267 个目录条目：87 主线、180 支线；149 个地图定位。
@@ -33,6 +35,7 @@ python3 scripts/build-data.py
 python3 scripts/enrich-data.py
 node scripts/validate.cjs
 node scripts/browser-validate.cjs
+node scripts/validate-landmarks.cjs
 python3 scripts/build-report.py
 node scripts/validate-assets.cjs
 python3 scripts/build-report.py
